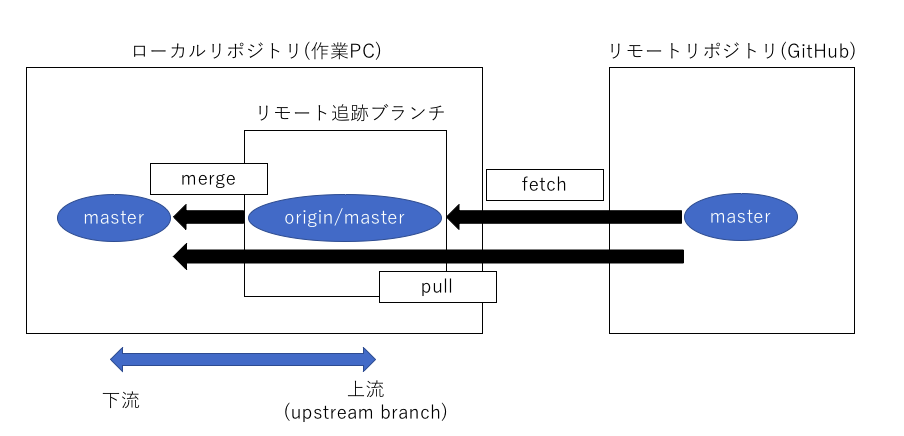
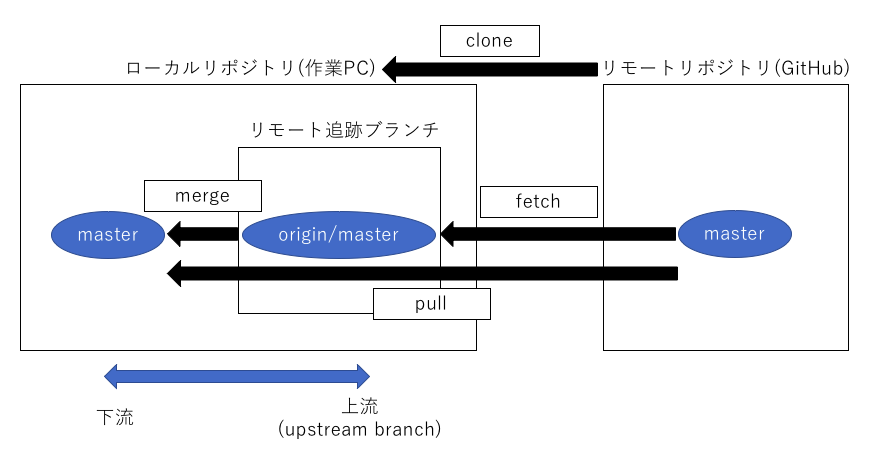
git調整(2)

diff --git a/doc/100.setting/git_pullreq_detail.md b/doc/100.setting/git_pullreq_detail.md
@@ -1,4 +1,4 @@
-### GitHubの基本的な操作
+## GitHubの基本的な操作
  - プルリク(PR：プルリクエスト)  
    **開発者のローカルリポジトリでの変更を他の開発者に通知する**  
    機能追加や改修など、作業内容をレビュー・マージ担当者に通知する  
@@ -6,7 +6,7 @@
    プルリクが取り込まれると、そのプロジェクトへの貢献者となり、今後利用される。  
    →ソーシャルコーディング・オープンソースの１つの場所
 
-### プルリクの作成方法  
+## プルリクの作成方法  
    1. **修正するソースコードの確認**  
    2. **対象のGitHubリポジトリをFork(時と場合による)**  
    3. **ローカルリポジトリへclone**  
@@ -18,10 +18,10 @@
    9. **プルリクをブラウザ上のGitHubで作る**  
    10. **プルリクのURLを開発チームのドキュメントに貼る**  
 
-### プルリクの概略図
+## プルリクの概略図
 ![プルリク](image/pullreq.png)
 
-### プルリクの作成方法の詳細  
+## プルリクの作成方法の詳細  
   1. **修正するソースコードの確認**   
      改善点について、課題を確認する。課題に関しては、誰が担当するのかを明記し、  
      責任者にメンションをとってから修正の準備を始める。
@@ -35,7 +35,7 @@
 
   3. **ローカルリポジトリへclone**  
      修正が必要なソースコードがあるリモートリポジトリがGitHub上にあるので、  
-     `git clone [git@github.com:"ユーザー名/リポジトリ名.git"]`  
+     `git clone git@github.com:[ユーザー名]/[リポジトリ名].git`  
      を打ち込むことでリモートリポジトリからローカルリポジトリにcloneする。
 
   4. **指定の親branchからpullする**  
@@ -58,8 +58,8 @@
 
   7. **変更をコミットする(ローカルリポジトリ上)**  
      修正した点 ***のみ*** を、ステージング領域に追加する。  
-     →ステージング領域に追加する前に、`git status`や`git diff`などで、  
-      変更ファイルや、変更したソースコードについてのレビューを自分自身で行う。
+     ステージング領域に追加する前に、`git status`や`git diff`などで、  
+     変更ファイルや、変更したソースコードについてのレビューを自分自身で行う。
 
   8. **トピックbranch(リモートリポジトリ)にpushする**  
      ローカルリポジトリ上での変更点をコミットしたら、リモートリポジトリにpushする。  
@@ -79,7 +79,7 @@
   10. **プルリクのURLを開発チームのドキュメントに貼る**  
      プルリクを作成したら、開発チームにメンションをする。  
      この際、プルリクのURLを貼ることが多いが、以下の形で貼ると良い。  
-     `https://github.com/[開発チーム]/[リモートリポジトリ名]/pull/[番号]``
+     `https://github.com/[開発チーム]/[リモートリポジトリ名]/pull/[番号]`
 
      ※ただし、再度変更点があった場合は、同じプルリクに入る(同じbranchの場合)
 

diff --git a/doc/100.setting/git.md b/doc/100.setting/git.md
@@ -108,13 +108,14 @@
     トピックブランチで作業していた内容を、統合ブランチにマージする  
     →統合ブランチに切り替えてから行う  
 
+
   **以下、ブランチの概略図**
   ![branch概略図](image/branch.png)
 
 ### リモートリポジトリでの操作
 #### リモートリポジトリの基本
  - `origin`  
-   リモートリポジトリの場所の別名。URL(git@github.com:[name]/[repository].git)のこと
+   リモートリポジトリの場所の別名。URL(`git@github.com:[name]/[repository].git`)のこと
 
 #### ローカルリポジトリとリモートリポジトリを繋ぐ
  - `origin/[ブランチ名]`  
@@ -143,10 +144,12 @@
 - `git remote add origin [git@github.com:"ユーザー名/リポジトリ名.git"]`  
   **リモートリポジトリを登録**  
   既に作成したローカルリポジトリを、リモートリポジトリとして登録する  
-  →ブラウザ上でリモートリポジトリを作成し、そこで得た`[git@github.com:"ユーザー名/リポジトリ名.git"]`を入力する
+  →ブラウザ上でリモートリポジトリを作成し、そこで得た`git@github.com:[ユーザー名]/[リポジトリ名].git`を入力する
 
-  以下、ローカルリポジトリ・リモートリポジトリの変更の概略図
+  **以下、ローカルリポジトリ・リモートリポジトリの変更の概略図**
   ![change](image/change.png)
+
+
 
 #### リモートリポジトリから取得
  - `git pull`  
@@ -155,13 +158,14 @@
    １つの課題に対して他の開発者が携わっている為、こまめに行う。  
    → `git pull origin [取得するブランチ名]`：取得するブランチから、自分のローカルリポジトリにマージする。
 
- - `git clone [git@github.com:"ユーザー名/リポジトリ名.git"]`  
+ - `git clone git@github.com:[ユーザー名]/[リポジトリ名].git`  
    **リモートリポジトリを取得**  
    リモートリポジトリを取得して、ローカルリポジトリに反映させる  
    →clone直後は、masterブランチになっていることに注意する。
 
-   以下、リモートリポジトリからの取得の概略図
+   **以下、リモートリポジトリからの取得の概略図**
    ![pull](image/pull.png)
+
 
 
 
